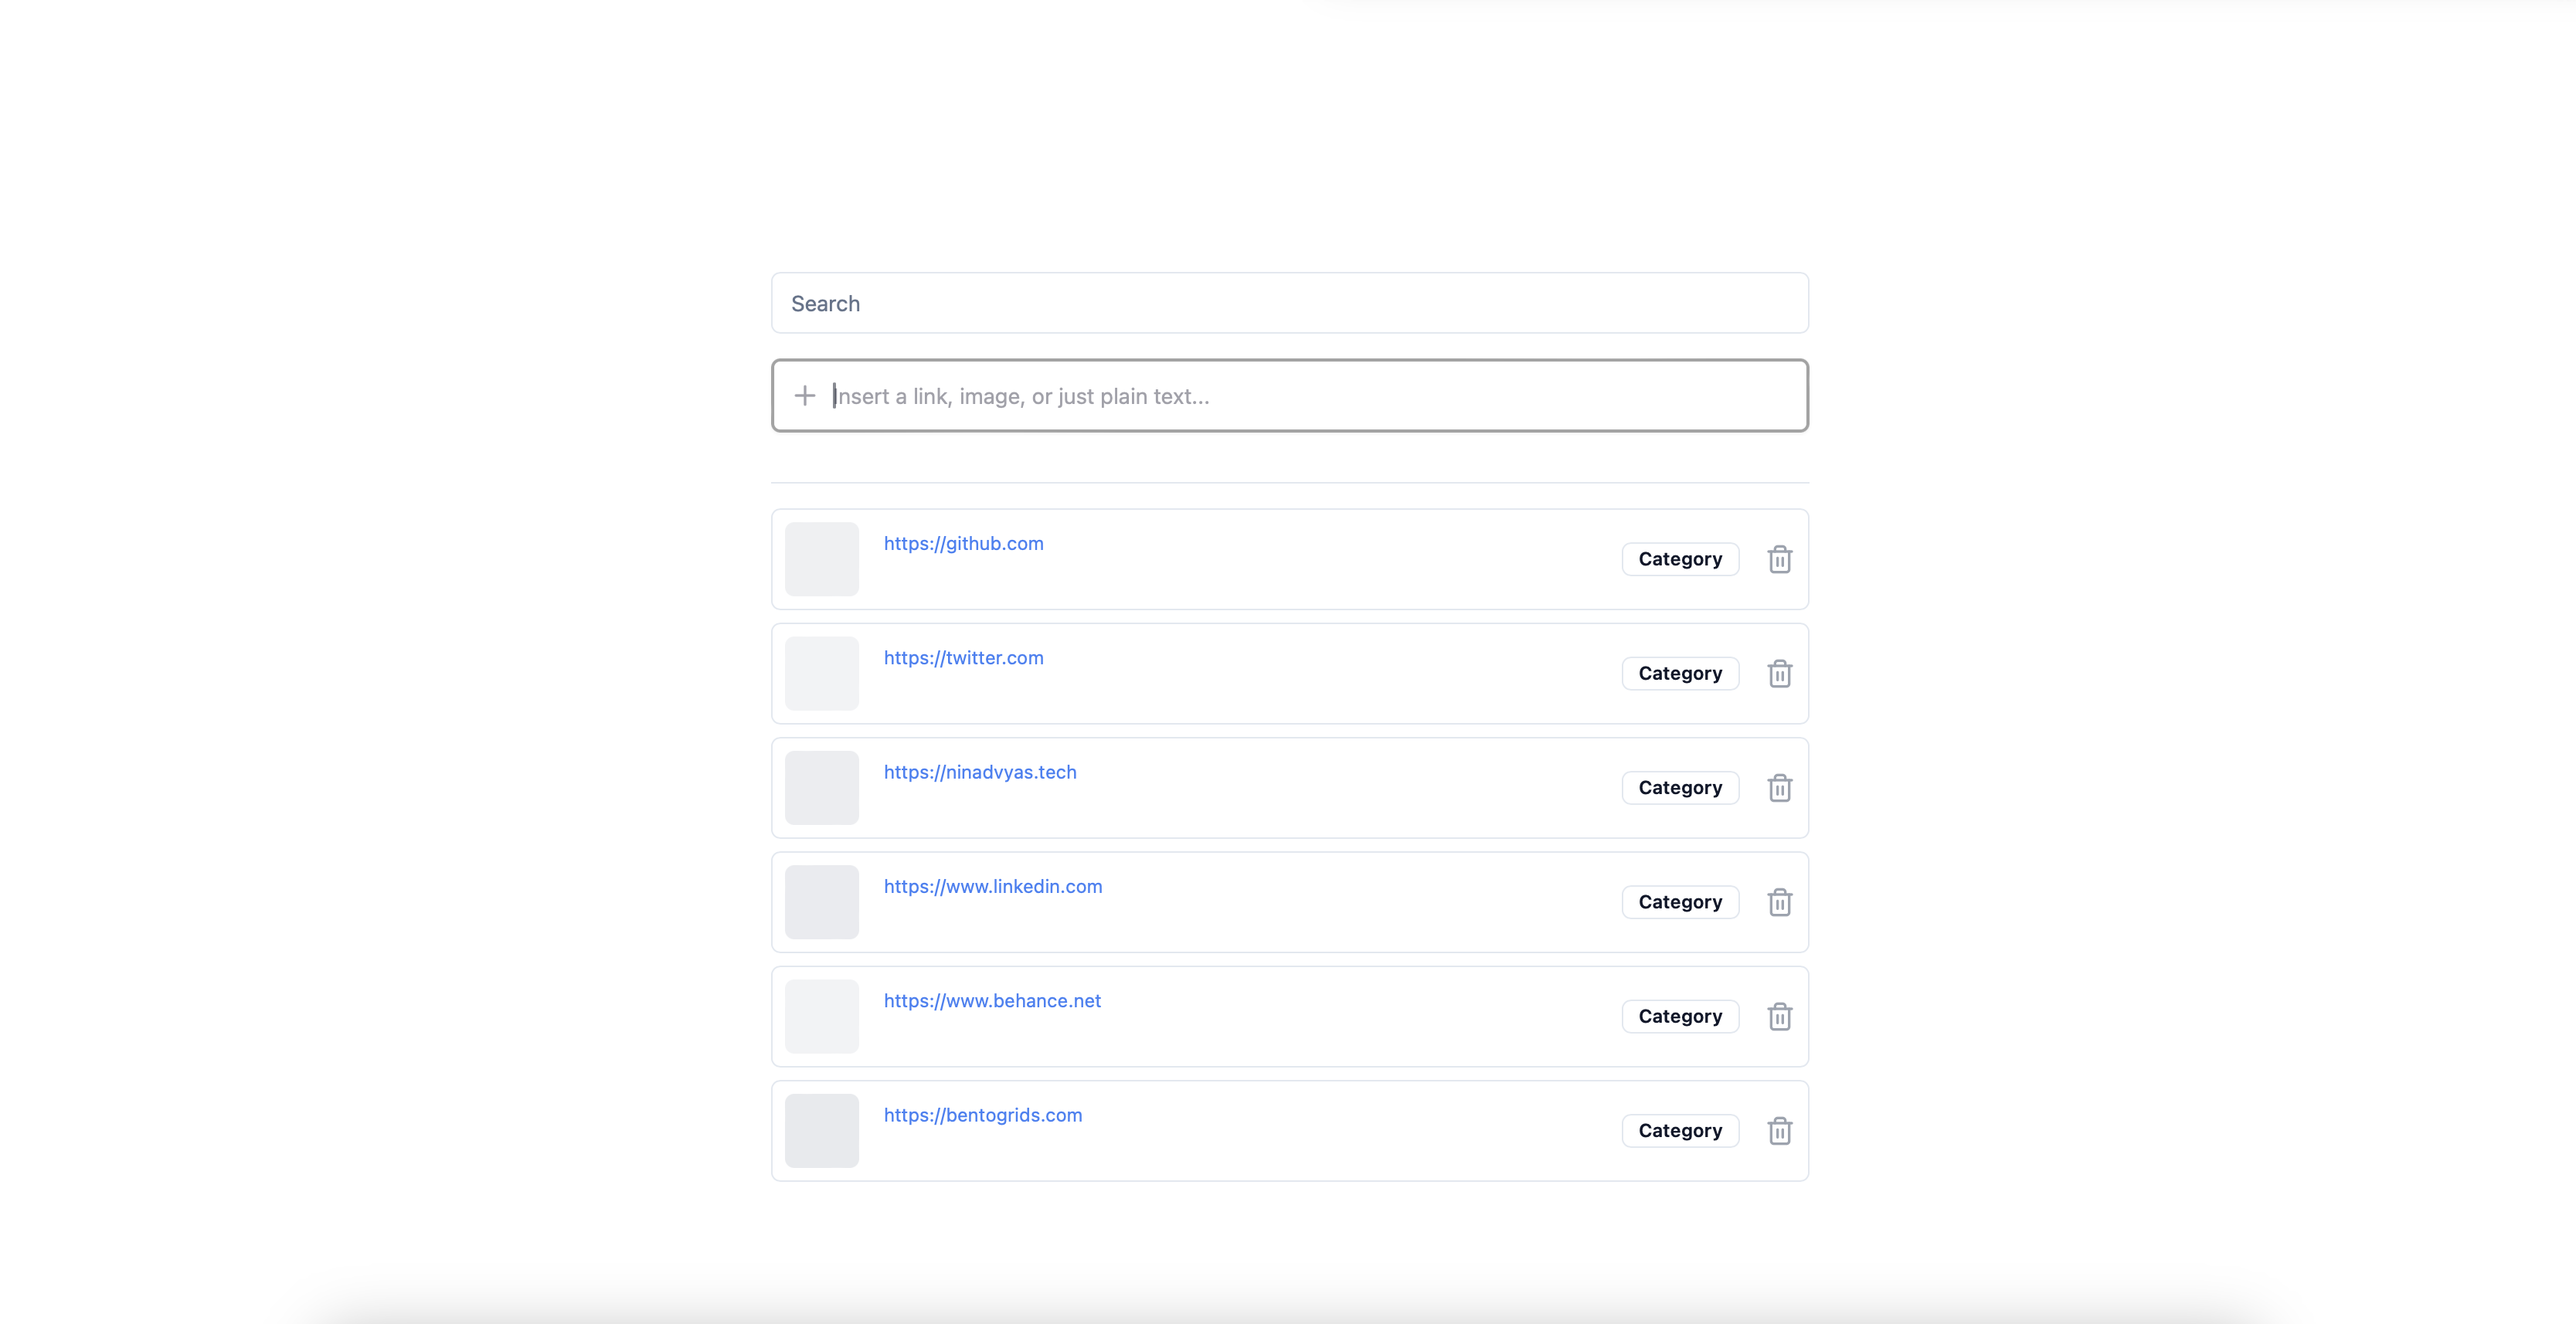
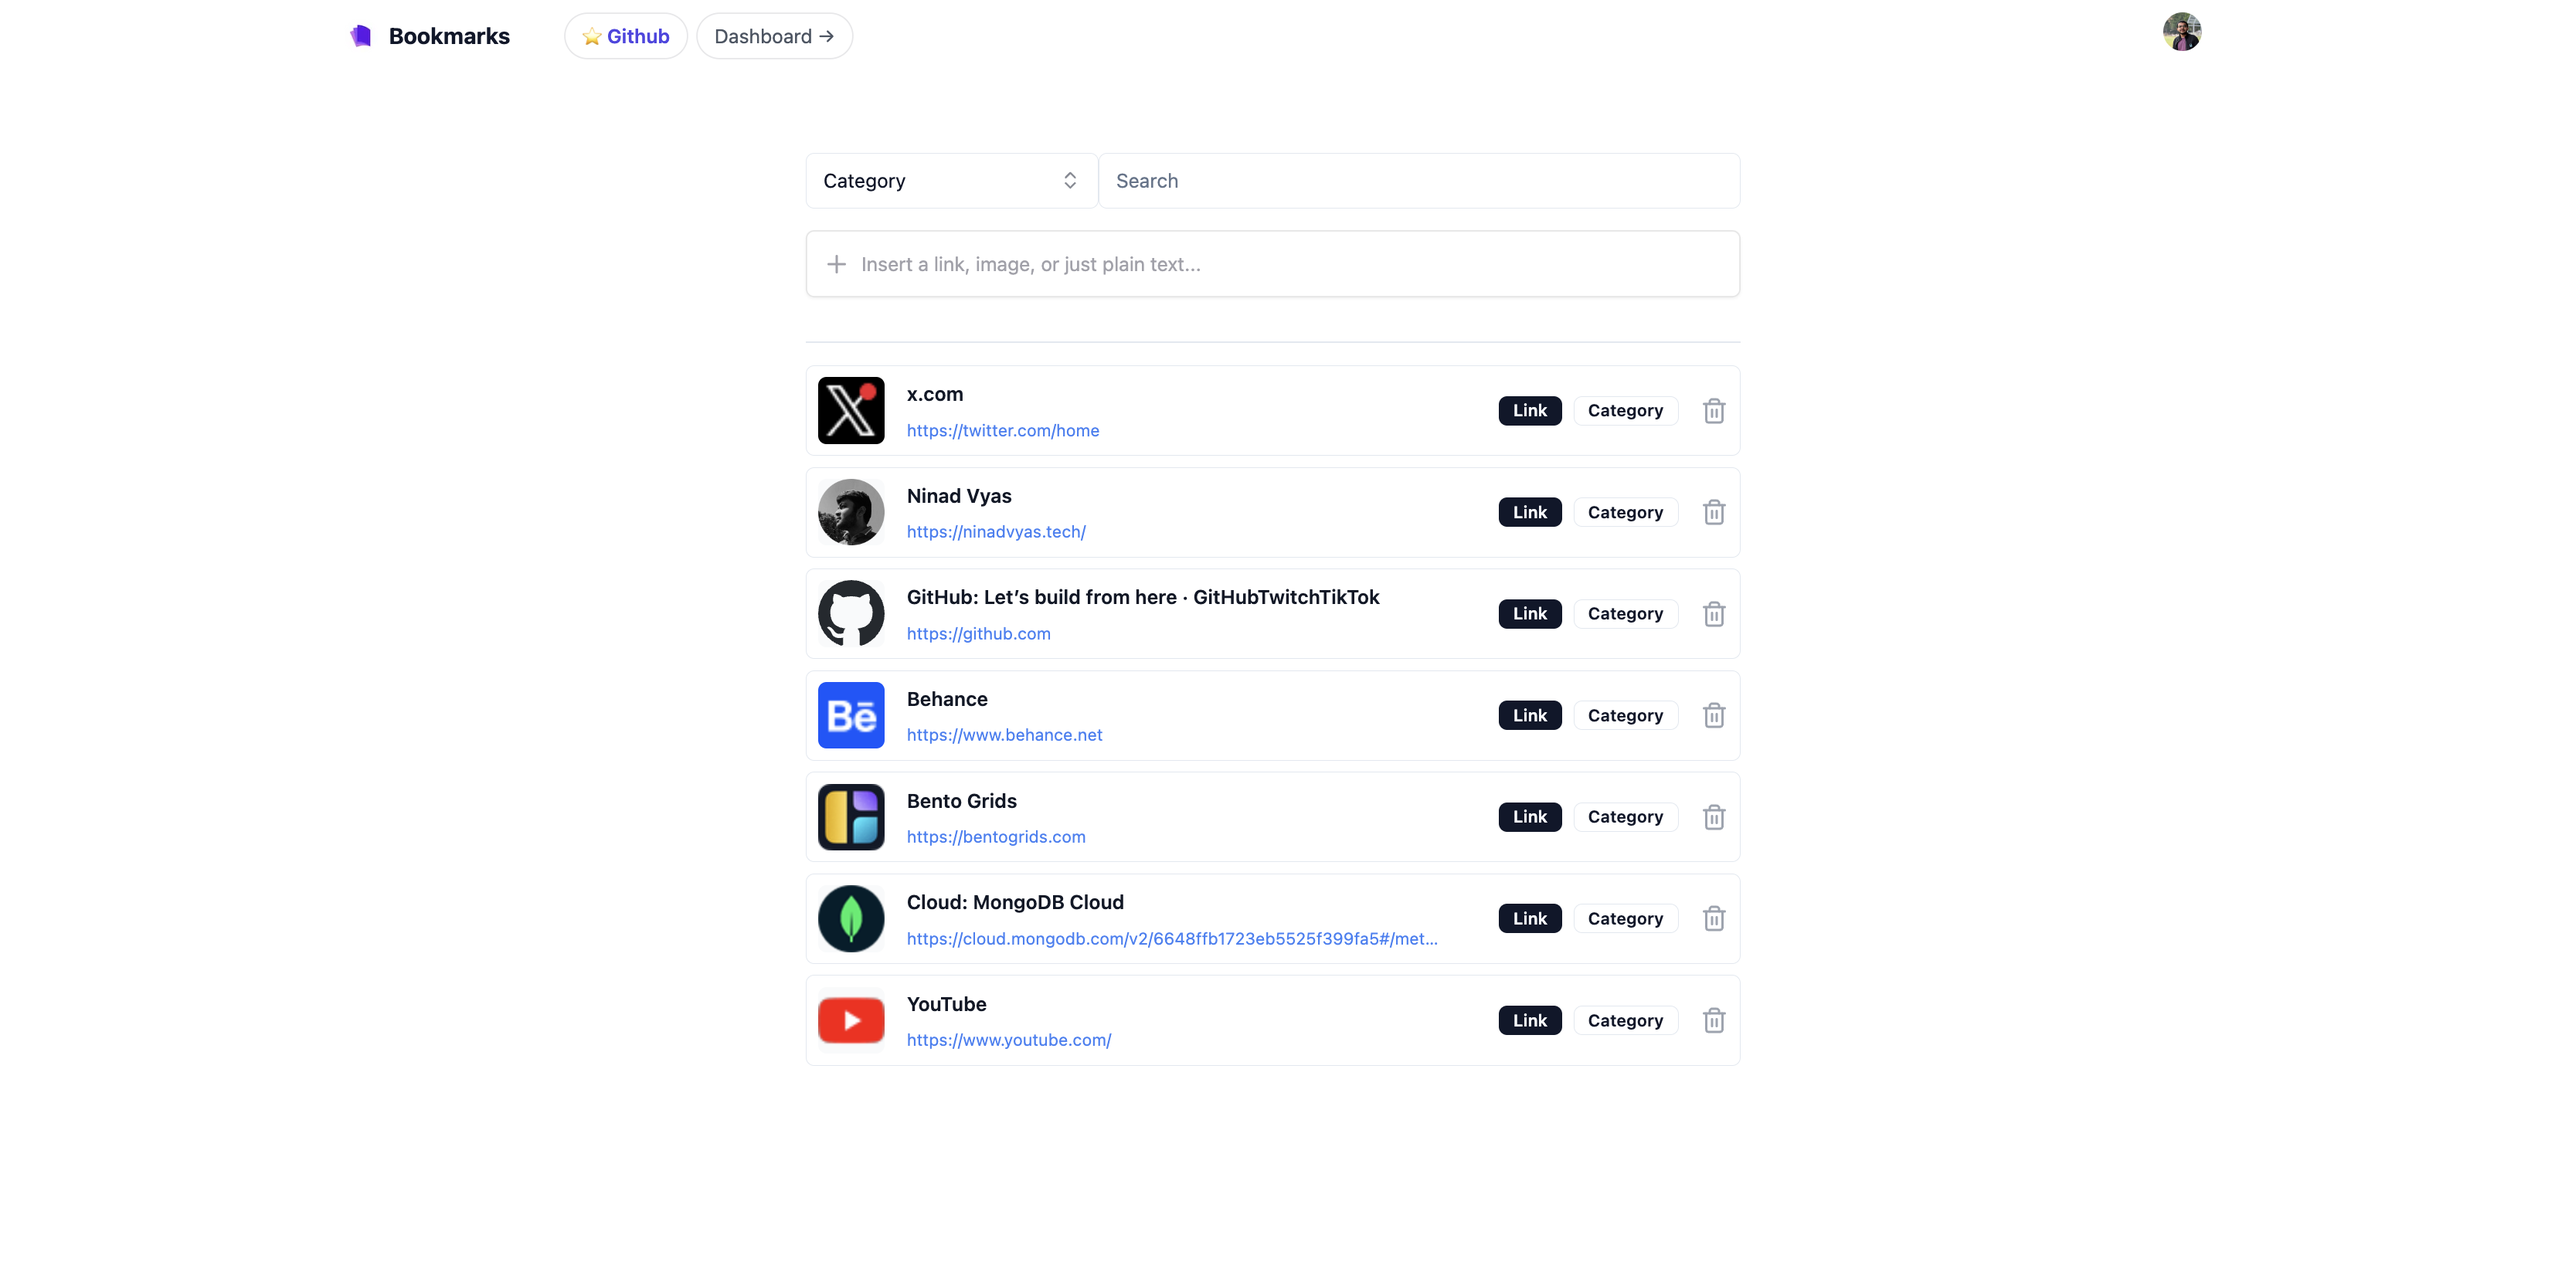
fix: nav, img

diff --git a/components/navbar.tsx b/components/navbar.tsx
@@ -7,6 +7,7 @@ export default function Navbar() {
     <header className="supports-backdrop-blur:bg-background/60 sticky top-0 z-40 w-full  backdrop-blur">
       <div className="container flex h-14 items-center">
         <div className="mr-4 hidden md:flex">
+          <Link href="/">
           <div className="mr-6 flex items-center space-x-2">
             
           <Image
@@ -20,7 +21,7 @@ export default function Navbar() {
                   Bookmarks 
                 </span>
           </div>
-        
+        </Link>
         </div>
         <button
           className="inline-flex items-center justify-center rounded-md font-medium transition-colors focus-visible:outline-none focus-visible:ring-ring disabled:opacity-50 disabled:pointer-events-none ring-offset-background hover:text-accent-foreground h-10 py-2 mr-2 px-0 text-base hover:bg-transparent focus-visible:bg-transparent focus-visible:ring-0 focus-visible:ring-offset-0 md:hidden"

diff --git a/src/pages/dashboard/index.tsx b/src/pages/dashboard/index.tsx
@@ -1,6 +1,5 @@
 import React, { useState, useEffect, ChangeEvent } from "react";
 import { motion } from "framer-motion";
-import Navbar from "@/components/navbar";
 import { Separator } from "@/components/ui/separator";
 import { Badge } from "@/components/ui/badge";
 import { Input } from "@/components/ui/input";
@@ -13,6 +12,7 @@ import {
   SelectValue,
 } from "@/components/ui/select";
 import { Plus, Trash2 } from "lucide-react";
+import Navbar from '../../../components/navbar';
 
 interface TextItem {
   text: string;
@@ -141,6 +141,8 @@ const Home: React.FC = () => {
 
   return (
     <div className="bg-white ">
+      <Navbar />
+
       <div className="relative px-6 isolate pt-14 lg:px-8">
         <div className="max-w-2xl mx-auto">
           <div className="sticky z-50 pb-4 top-14 supports-backdrop-blur:bg-background/60 bg-background/95 backdrop-blur">
